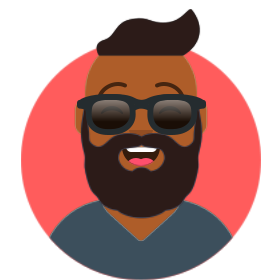
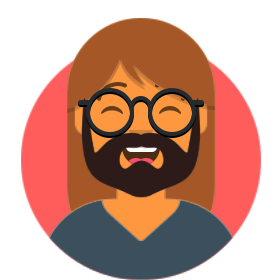
skin & hair color detection improve

Changed region(s): [[0.2286, 0.0286, 0.7714, 0.8571], [0.4, 0.5143, 0.6, 0.6286]]

diff --git a/avatar.py b/avatar.py
@@ -11,9 +11,13 @@ import cv2 as cv
 from matplotlib import pyplot as plt
 import os
 from deepface import DeepFace
+from sklearn.cluster import KMeans
+from scipy.spatial import distance
+
+
 
 # Load the original image
-img = cv.imread('image.png')
+img = cv.imread("image_female.png")
 assert img is not None, "File could not be read, check with os.path.exists()"
 
 # Initialize mask and models
@@ -63,32 +67,46 @@ if os.path.exists('labeled_mask.png'):
 
 
 
-# Load the image
-image_path = "refined_image.png"
+# Read the image
+image_path = "refined_image.png"  # Update the path with your image name
 image = cv2.imread(image_path)
+
+# Convert the image to grayscale
 gray = cv2.cvtColor(image, cv2.COLOR_BGR2GRAY)
 
-# Detect the face
+# Load the Haar cascade for face detection
 face_cascade = cv2.CascadeClassifier(cv2.data.haarcascades + 'haarcascade_frontalface_default.xml')
+
+# Detect faces in the image
 faces = face_cascade.detectMultiScale(gray, scaleFactor=1.1, minNeighbors=5)
+
+if len(faces) == 0:
+    raise ValueError("No faces detected in the image.")
 
 # Extract the forehead region
 for (x, y, w, h) in faces:
-    forehead = image[y:y+h//4, x:x+w]
+    # Ensure the forehead region is within bounds
+    reduction_factor=0.2
+    left_reduction=int(w*reduction_factor)
+    right_reduction=int(w*reduction_factor)
+    forehead = image[y:y + h // 4, x+left_reduction:x + w-right_reduction]
+    # cv2.imwrite("forehead.png",forehead)
+    # print(forehead)
+    break  # Use the first detected face for the forehead
 
-# Use K-Means clustering to find the dominant skin color
+# Convert the forehead to RGB format for clustering
 forehead = cv2.cvtColor(forehead, cv2.COLOR_BGR2RGB)
 forehead_pixels = forehead.reshape(-1, 3)
 forehead_pixels = np.float32(forehead_pixels)
 
-# Define criteria and apply K-Means
+# Define criteria for K-Means clustering
 criteria = (cv2.TERM_CRITERIA_EPS + cv2.TERM_CRITERIA_MAX_ITER, 100, 0.2)
 _, labels, centers = cv2.kmeans(forehead_pixels, 1, None, criteria, 10, cv2.KMEANS_RANDOM_CENTERS)
 
-# Get the dominant color
+# Get the dominant skin color
 skin_color = centers[0].astype(int)
 
-# Define RGB values for the available colors
+# Define a color palette
 color_palette = {
     'black': (0, 0, 0),
     'brown': (139, 69, 19),
@@ -99,7 +117,7 @@ color_palette = {
     'yellow': (255, 255, 0)
 }
 
-# Function to calculate Euclidean distance between two RGB colors
+# Function to calculate Euclidean distance
 def euclidean_distance(color1, color2):
     return np.sqrt((color1[0] - color2[0])**2 + (color1[1] - color2[1])**2 + (color1[2] - color2[2])**2)
 
@@ -114,9 +132,9 @@ def closest_color(requested_color):
             closest_color_name = name
     return closest_color_name
 
-# Find the closest color from the palette
-closest_color_name = ((closest_color(tuple(skin_color))).replace(" ","_")).upper()
-# print(closest_color_name)
+# Find the closest color
+closest_color_name = closest_color(tuple(skin_color)).replace(" ", "_").upper()
+
 
 skin_color_mapping = {
     "BLACK": pa.SkinColor.BLACK,
@@ -133,10 +151,7 @@ chosen_skin_color = skin_color_mapping.get(closest_color_name, pa.SkinColor.LIGH
 # avatar.render_png_file("avt.png")
 
 # hair color code
-import cv2
-import numpy as np
-from sklearn.cluster import KMeans
-from scipy.spatial import distance
+
 
 # Available hair colors in py_avataaars (as RGB)
 AVAILABLE_HAIR_COLORS = {
@@ -168,7 +183,7 @@ def find_closest_color(detected_rgb):
 
 
 # Step 1: Load the image
-image_path = "refined_image.png"  # Update with your image path
+image_path = "image_female.png"  # Update with your image path
 image = cv2.imread(image_path)
 image_rgb = cv2.cvtColor(image, cv2.COLOR_BGR2RGB)
 
@@ -186,6 +201,7 @@ for (x, y, w, h) in faces:
     # Define the hair region: an area above the face
     hair_region_top = max(0, y - h // 2)
     hair_region = image_rgb[hair_region_top:y, x:x+w]
+    cv.imwrite('hairs.png', hair_region)
 
     if hair_region.size == 0:
         print("No hair region detected.")
@@ -206,7 +222,7 @@ dominant_color = [int(c) for c in dominant_color]
 
 # Step 6: Find the closest available color in py_avataaars
 closest_hair_color = find_closest_color(dominant_color)
-# print(f"Closest Hair Color for py_avataaars: {closest_hair_color}")
+print(f"Closest Hair Color for py_avataaars: {closest_hair_color}")
 
 hair_color_mapping = {
     "Black": pa.HairColor.BLACK,
@@ -493,9 +509,9 @@ image_path = "refined_image.png"  # Replace with your image path
 gender_result, hair_style_result, chosen_top_type = analyze_image(image_path)
 
 # Display the results
-print(f"Detected Gender: {gender_result}")
-print(f"Detected Hair Style: {hair_style_result}")
-print(f"Mapped Top Type: {chosen_top_type}")
+# print(f"Detected Gender: {gender_result}")
+# print(f"Detected Hair Style: {hair_style_result}")
+# print(f"Mapped Top Type: {chosen_top_type}")
 # print(type(chosen_top_type))
 
 
@@ -541,7 +557,7 @@ def analyze_expression_and_map_eyebrows(image_path):
         # Analyze facial expression using DeepFace
         analysis = DeepFace.analyze(img_path=image_path, actions=['emotion'], enforce_detection=False)
         emotion = analysis[0]['dominant_emotion']
-        print(f"Detected emotion: {emotion}")
+        # print(f"Detected emotion: {emotion}")
 
         # Map the detected emotion to an eyebrow type
         eyebrow_key = emotion_to_eyebrow_type.get(emotion, "DEFAULT_NATURAL")
